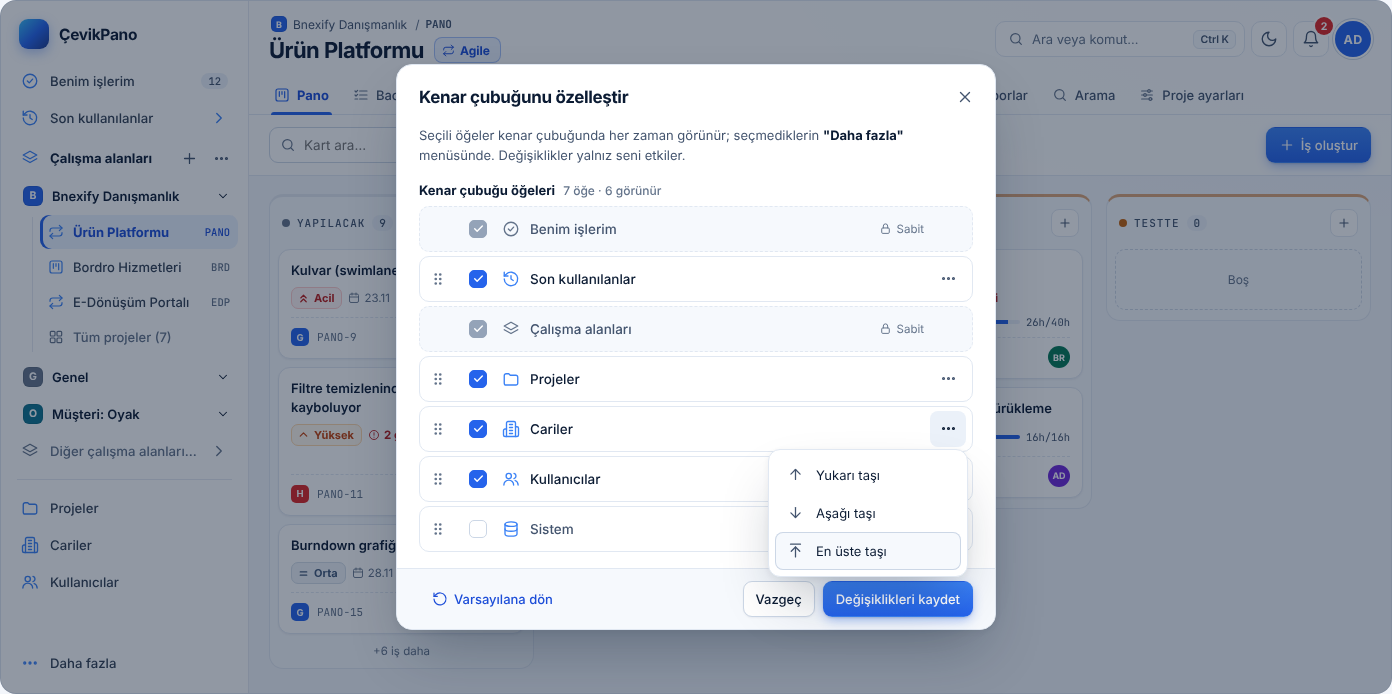
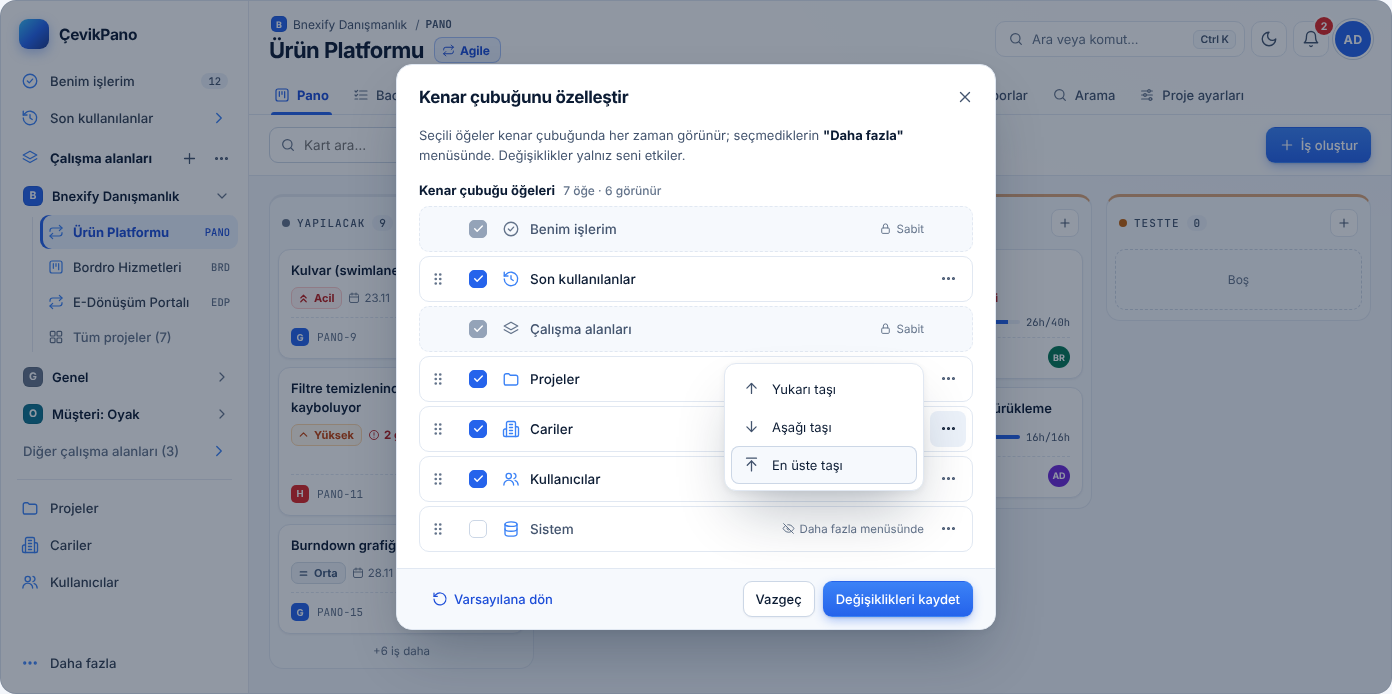
Tasarım: gezinme taslağının son hâli (mobil çekmece, okunurluk düzeltmeleri)
Claude-Session: https://claude.ai/code/session_01LxE1FLfCDXNLJ7JDPk6vBD

diff --git a/docs/tasarim/gezinme/taslak.html b/docs/tasarim/gezinme/taslak.html
@@ -58,7 +58,7 @@
   --nv-guide:#1B2842; --nv-sec-ink:#8494AE;
   --nv-tab-ink:#A3B2CB; --nv-tab-on:#BFDBFE; --nv-tab-bar:#60A5FA; --nv-tab-hover:#121D33;
   --nv-fixed-bg:#101A2E; --nv-fixed-ink:#8494AE; --nv-check-off:#5F6F8C;
-  --nv-av:#3B82F6; --nv-av-ink:#FFFFFF;
+  --nv-av:#2563EB; --nv-av-ink:#FFFFFF;
   --nv-scrim:rgba(0,0,0,.6);
   --nv-busy:#FBBF24;
 }
@@ -127,8 +127,7 @@ ul{list-style:none;margin:0;padding:0}
 .nv-proj.all{color:var(--nv-sec-ink);font-weight:550}
 .nv-proj.all > svg.i{color:var(--nv-sec-ink)}
 .nv-empty{padding:7px 8px;font-size:12.5px;color:var(--meta);font-style:normal}
-.nv-other{color:var(--nv-sec-ink);font-weight:550}
-.nv-other > svg.i{color:var(--nv-sec-ink)!important}
+.nv-other{color:var(--nv-sec-ink);font-weight:550;padding-left:12px}
 .nv-more{margin-top:auto}
 .nv-add{color:var(--accent-d);font-weight:600}
 .nv-add > svg.i{color:var(--accent-d)!important}
@@ -308,7 +307,7 @@ select.inp{width:auto;appearance:none;-webkit-appearance:none;padding-right:30px
 .nv-cz-r .ix{position:absolute;left:-26px;font-family:var(--mono);font-size:10.5px;color:var(--meta)}
 .nv-cz-r .nv-ib{width:36px;height:36px}
 .nv-cz-r .nv-ib::before{display:none}
-.nv-cz-r .nv-pop{right:4px;top:calc(100% - 2px);min-width:200px}
+.nv-cz-r .nv-pop{right:48px;top:-44px;min-width:200px}
 .nv-dlg .m-f{display:flex;align-items:center;gap:8px;padding:12px 22px;border-top:1px solid var(--line);background:var(--surface2);border-radius:0 0 16px 16px}
 .nv-dlg .m-f .spacer{flex:1}
 .stage{position:relative;border-radius:16px;overflow:hidden}
@@ -377,7 +376,7 @@ select.inp{width:auto;appearance:none;-webkit-appearance:none;padding-right:30px
   .board .col{flex:0 0 84%;scroll-snap-align:start}
   .col-h .add{width:44px;height:44px}
   .tbl th:nth-child(2),.tbl td:nth-child(2),.tbl th:nth-child(4),.tbl td:nth-child(4){display:none}
-  .nv-drawer{display:flex;position:absolute;z-index:40;top:0;bottom:0;left:0;width:min(326px,88%);border-right:1px solid var(--rail-line);box-shadow:var(--shadow-lg);overflow-y:auto;padding:8px 10px 12px}
+  .app > .nv-drawer{display:flex;position:absolute;z-index:40;top:0;bottom:0;left:0;width:min(326px,88%);border-right:1px solid var(--rail-line);box-shadow:var(--shadow-lg);overflow-y:auto;padding:8px 10px 12px}
   .app > .nv-scrim{position:absolute;inset:0;z-index:39}
   .nv-drawer .brand{padding:0 0 6px 8px;min-height:52px}
   .nv-drawer .brand b{flex:1}
@@ -422,11 +421,12 @@ select.inp{width:auto;appearance:none;-webkit-appearance:none;padding-right:30px
   .nv-dlg .m-b > p{padding:0 4px}
   .nv-cz-r{grid-template-columns:44px 44px 20px minmax(0,1fr) 44px;min-height:52px;gap:0 4px}
   .nv-cz-r .hint{grid-column:4;grid-row:2;margin:-8px 0 6px}
-  .nv-cz-r .hint.lock{display:none}
+  .nv-cz-r .hint.lock{grid-column:5;grid-row:1;justify-self:center;margin:0;font-size:0;gap:0}
+  .nv-cz-r .hint.lock svg.i{width:16px;height:16px}
   .nv-grip{width:44px;height:44px}
   .nv-chk{width:44px;height:44px}
   .nv-cz-r .nv-ib{width:44px;height:44px;grid-column:5;grid-row:1}
-  .nv-cz-r .nv-pop{left:auto;right:0;min-width:220px}
+  .nv-cz-r .nv-pop{left:auto;right:0;top:calc(100% - 2px);min-width:220px}
   .nv-cz-r .nv-pop .nv-mi{min-height:44px}
   .nv-dlg .m-f{flex-wrap:wrap;padding:10px 12px}
   .nv-dlg .m-f .btn{flex:1 1 0;height:44px}
@@ -548,7 +548,7 @@ const I = {
   acil:'<path d="m7 11 5-5 5 5"/><path d="m7 18 5-5 5 5"/>', yuksek:'<path d="m6 15 6-6 6 6"/>', orta:'<path d="M6 9h12M6 15h12"/>',
   hidden:'<path d="M3 3l18 18"/><path d="M10.6 5.1A10 10 0 0 1 12 5c6.5 0 10 7 10 7a17 17 0 0 1-3 3.9M6.6 6.6A17 17 0 0 0 2 12s3.5 7 10 7a9.7 9.7 0 0 0 5.4-1.6"/><path d="M9.9 9.9a3 3 0 0 0 4.2 4.2"/>',
 };
-const ic = (n, s = '') => `<svg class="i" viewBox="0 0 24 24" aria-hidden="true" ${s}>${I[n]}</svg>`;
+const ic = (n, s = '') => `<svg ${/class=/.test(s) ? '' : 'class="i"'} viewBox="0 0 24 24" aria-hidden="true" ${s}>${I[n]}</svg>`;
 const $ = s => document.querySelector(s);
 const set = (s, h) => { $(s).innerHTML = h; };
 
@@ -585,7 +585,7 @@ const rail = (o = {}) => {
       ${wsNode('bnx', { open:true, cur: v === 'board' ? 'PANO' : null, last: v !== 'board' ? 'PANO' : null })}
       ${wsNode('gen', { open: !!o.genOpen })}
       ${wsNode('oyk')}
-      <li><button type="button" class="nv-item nv-other" aria-expanded="${!!o.other}">${ic('layers')}<span class="tx">Diğer çalışma alanları (3)</span>${ic(o.other ? 'down' : 'right', 'class="i end"')}</button>
+      <li><button type="button" class="nv-item nv-other" aria-expanded="${!!o.other}"><span class="tx">Diğer çalışma alanları (3)</span>${ic(o.other ? 'down' : 'right', 'class="i end"')}</button>
         ${o.other ? `<ul class="nv-tree" style="margin-left:8px">${wsNode('ic')}${wsNode('snp', { open:true })}${wsNode('dnt')}</ul>` : ''}</li>
     </ul>`;
   return `${o.drawer ? '' : '<div class="brand"><span class="brand-ic"></span><b>ÇevikPano</b></div>'}
